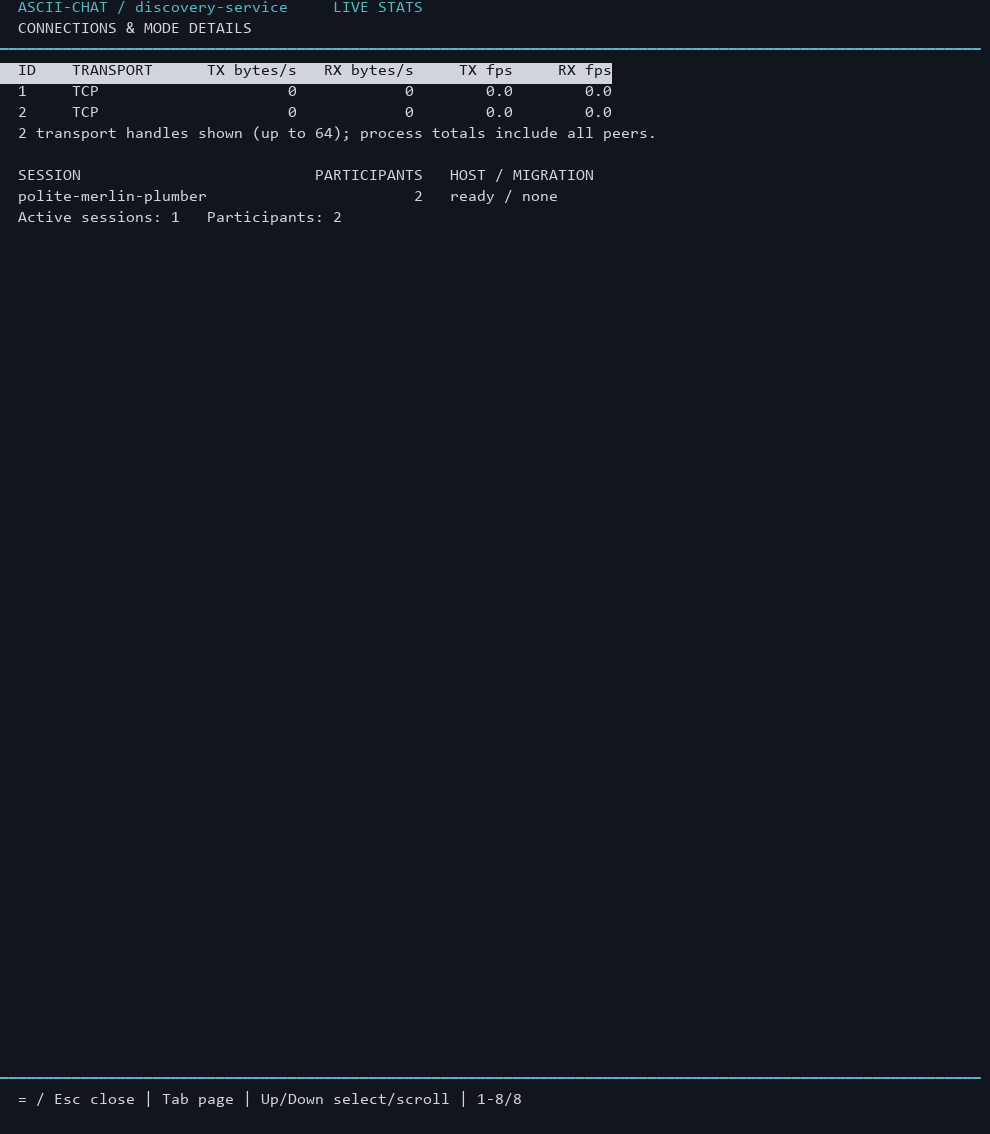
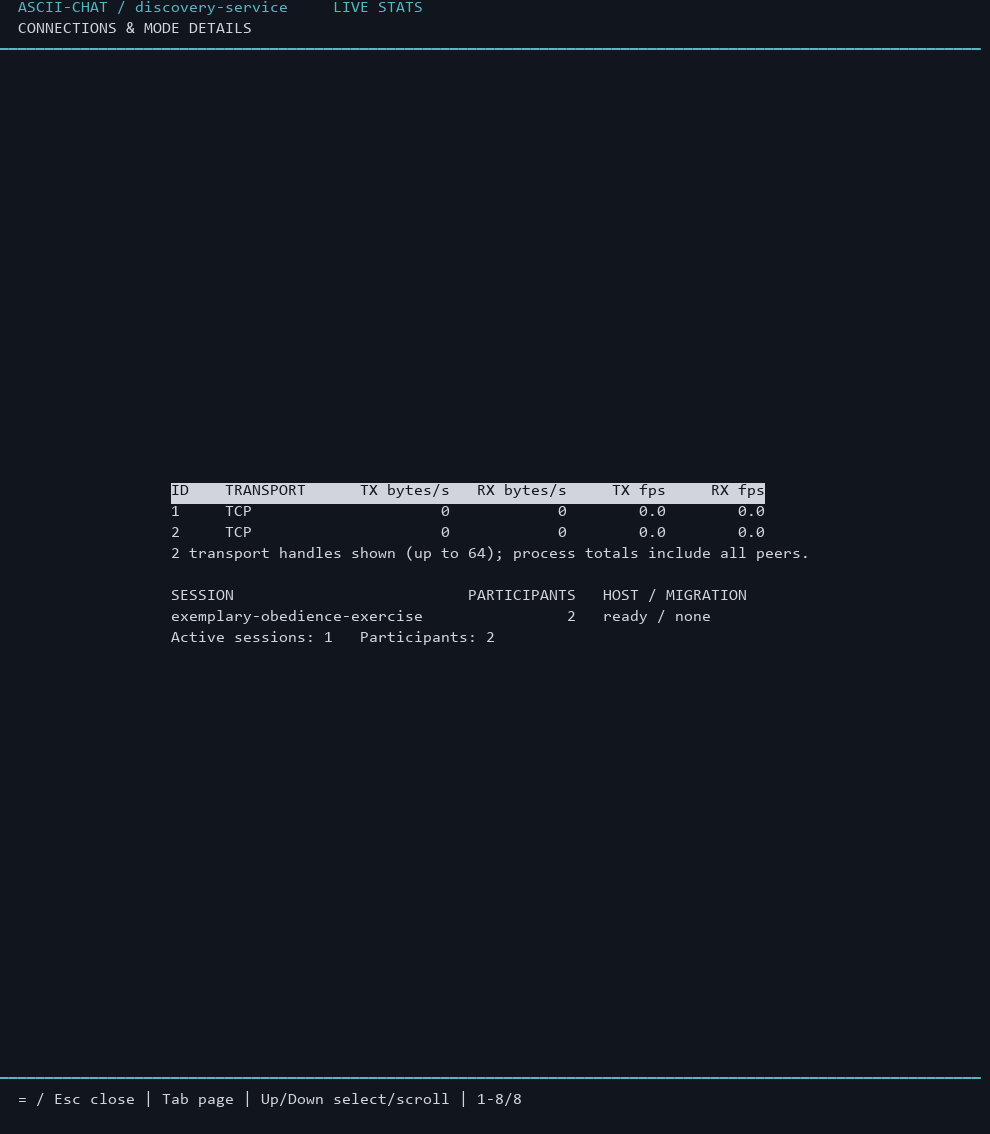
fix(stats): center body content within the stats screen

diff --git a/lib/stats/runtime.c b/lib/stats/runtime.c
@@ -174,10 +174,27 @@ static void stats_render(terminal_size_t size, const void *data) {
                       view->page ? "CONNECTIONS & MODE DETAILS" : "OVERVIEW / rates over ~1 second");
   frame_buffer_render_border(buffer, size.cols, "\033[36m");
   unsigned available = size.rows > 6 ? (unsigned)size.rows - 6 : 0;
+  unsigned remaining = view->offset < view->count ? view->count - view->offset : 0;
+  unsigned visible = remaining < available ? remaining : available;
+  unsigned top = (available - visible) / 2;
+  size_t width = 0;
+  // Use the whole page to keep columns stable while scrolling.
+  for (unsigned i = 0; i < view->count; ++i) {
+    size_t length = strlen(view->lines[i]);
+    if (length > width)
+      width = length;
+  }
+  if (width > (size_t)(size.cols - 4))
+    width = (size_t)(size.cols - 4);
+  int left = (size.cols - (int)width) / 2;
   for (unsigned i = 0; i < available; ++i) {
-    unsigned index = view->offset + i;
-    frame_buffer_printf(buffer, "%s  %-.*s\033[0m\033[K\n", view->page && index == view->selected ? "\033[7m" : "",
-                        size.cols - 3, index < view->count ? view->lines[index] : "");
+    if (i < top || i >= top + visible) {
+      frame_buffer_printf(buffer, "\033[K\n");
+      continue;
+    }
+    unsigned index = view->offset + i - top;
+    frame_buffer_printf(buffer, "%*s%s%.*s\033[0m\033[K\n", left, "",
+                        view->page && index == view->selected ? "\033[7m" : "", (int)width, view->lines[index]);
   }
   frame_buffer_render_border(buffer, size.cols, "\033[36m");
   char footer[160];
